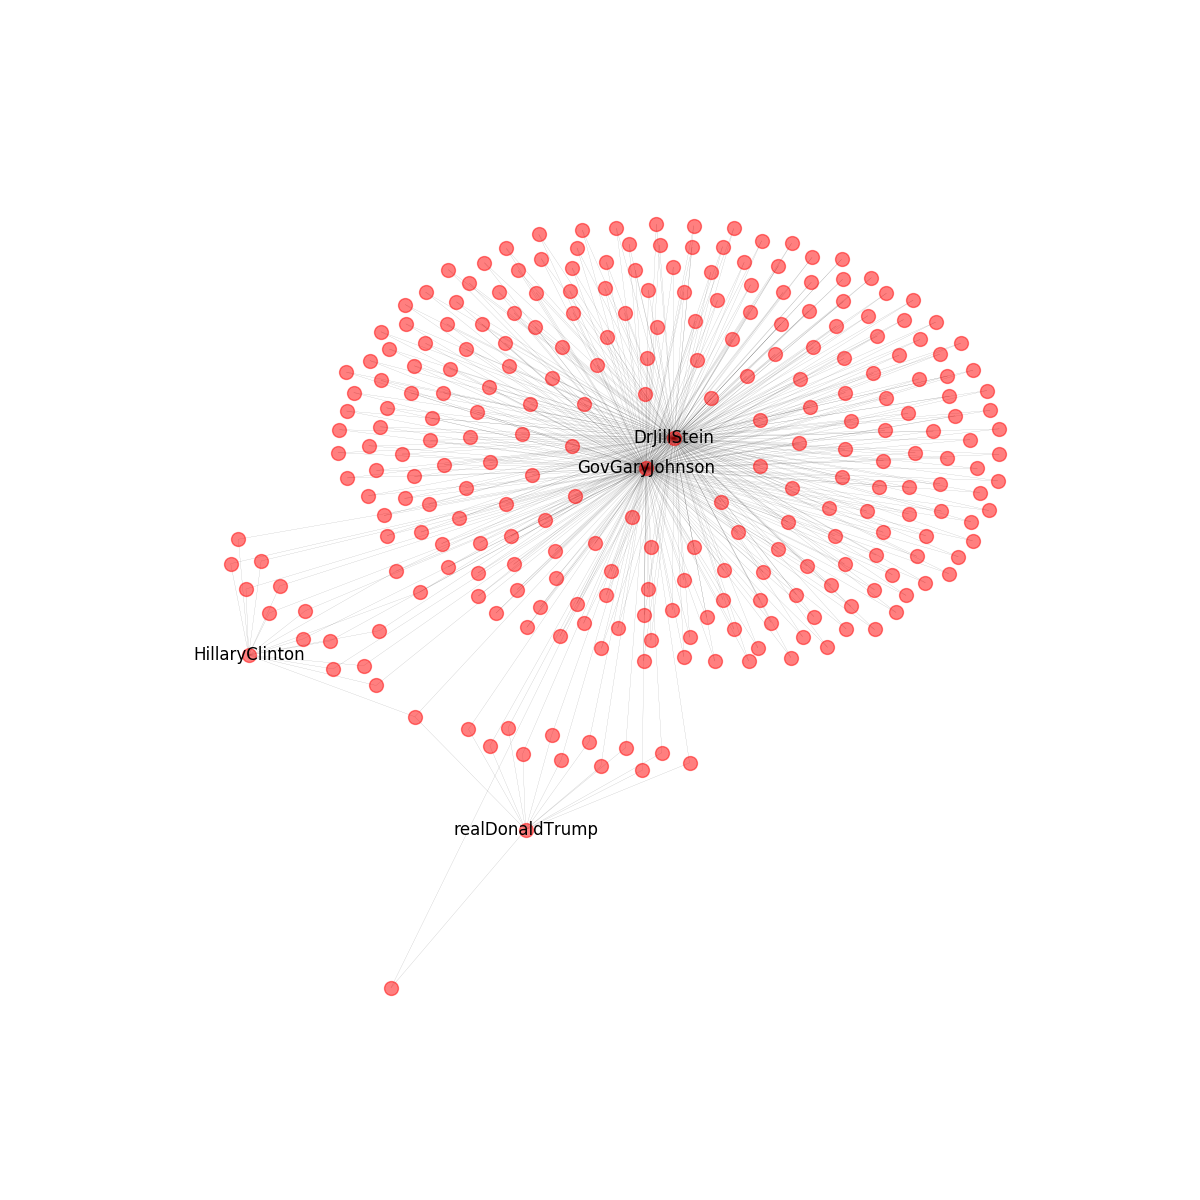
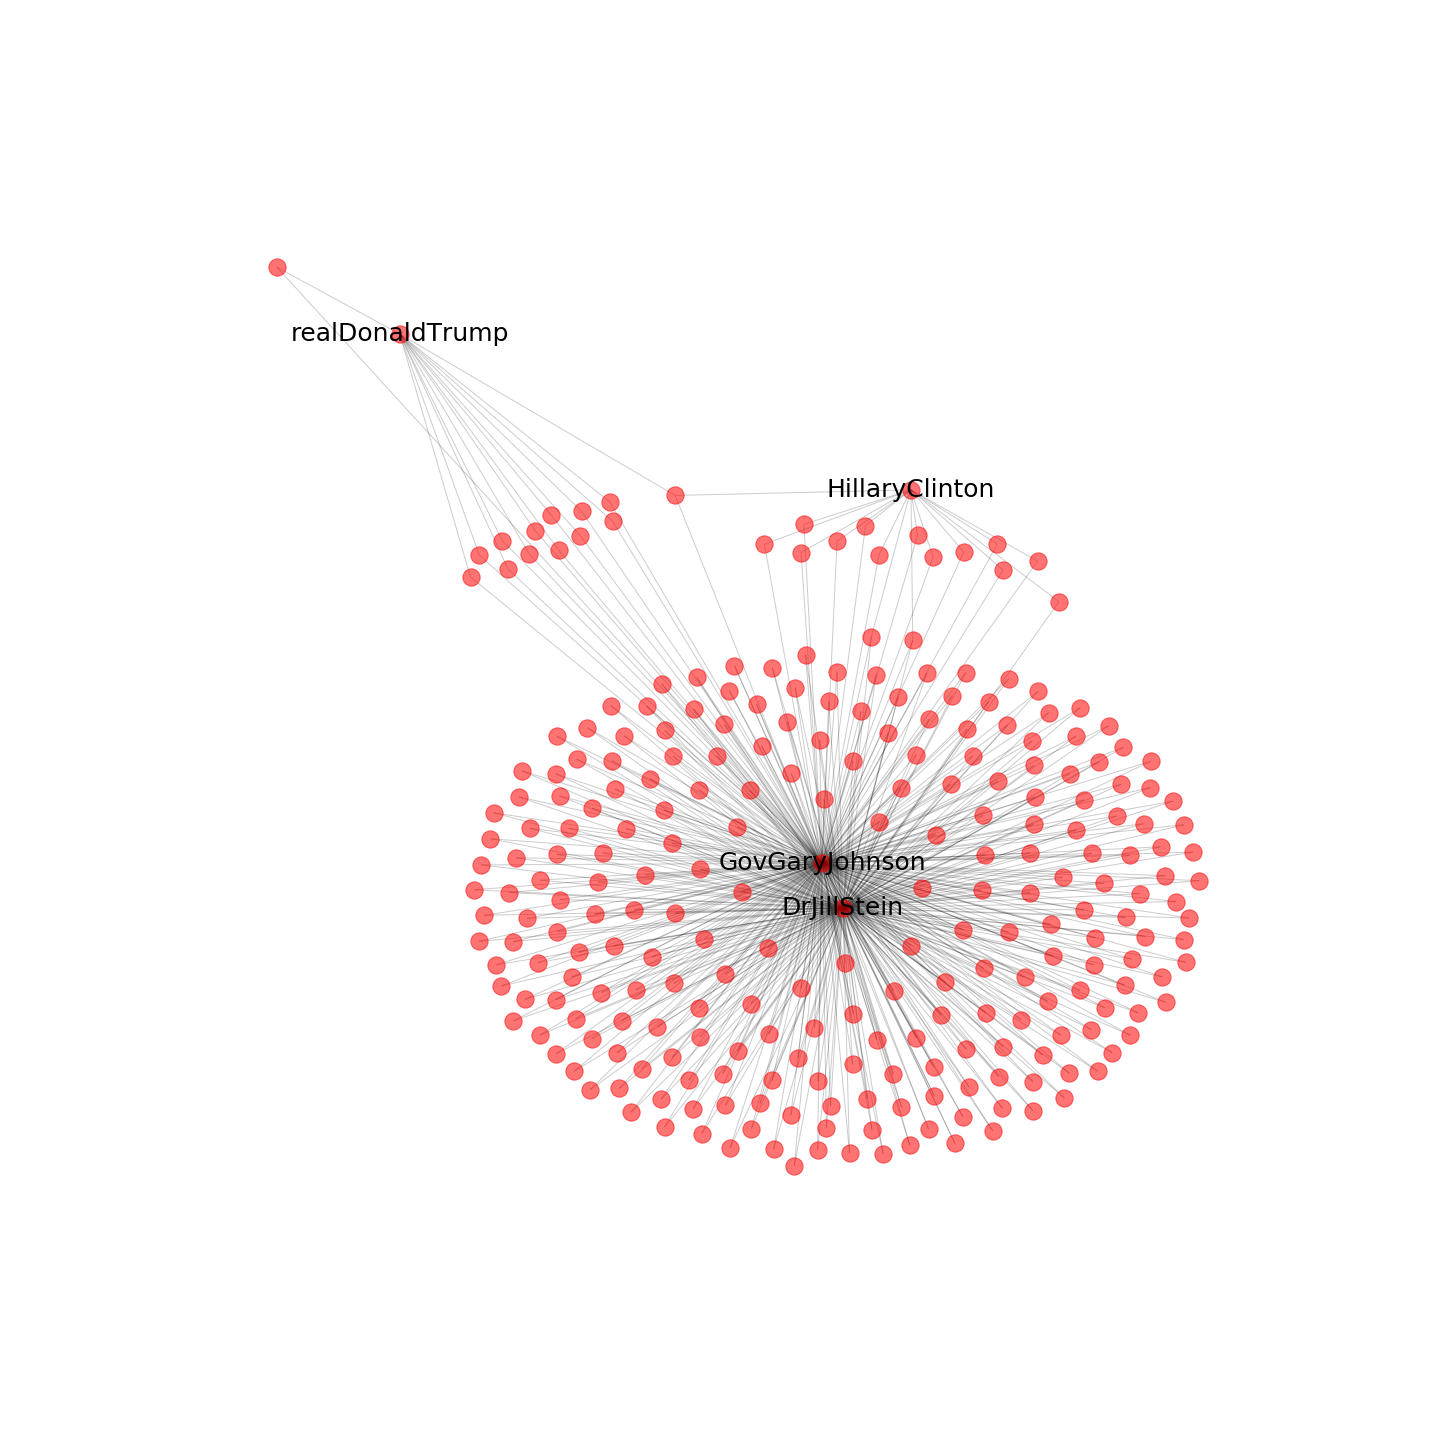
homework complete

Changed region(s): [[0.1542, 0.185, 0.8633, 0.8325], [0.3083, 0.8017, 0.3392, 0.8325], [0.185, 0.185, 0.2158, 0.2158]]

diff --git a/a0/a0.py b/a0/a0.py
@@ -37,10 +37,10 @@ import sys
 import time
 from TwitterAPI import TwitterAPI
 
-consumer_key = 'fixme'
-consumer_secret = 'fixme'
-access_token = 'fixme'
-access_token_secret = 'fixme'
+consumer_key = 'ZQUWep0tLQOMLlAzp3rc5nfLC'
+consumer_secret = 'WcUpLnL307p7mRVw8blFT9B6cfAeXeNyJurdEcgqyjX5PgtKin'
+access_token = '953384758742081541-vRfGVBxWZfOVKmKMf0I142BXEjzFbRP'
+access_token_secret = 'XjkTkXGQQdO2gFv29W5pPEZh6F3IhrrRJRjkZSugJEKGa'
 
 
 # This method is done for you.
@@ -66,9 +66,10 @@ def read_screen_names(filename):
     >>> read_screen_names('candidates.txt')
     ['DrJillStein', 'GovGaryJohnson', 'HillaryClinton', 'realDonaldTrump']
     """
-    ###TODO
-    pass
-
+    with open(filename) as f:
+        content = f.read().splitlines()
+    return content
+     ###TODO
 
 # I've provided the method below to handle Twitter's rate limiting.
 # You should call this method whenever you need to access the Twitter API.
@@ -112,8 +113,9 @@ def get_users(twitter, screen_names):
     >>> [u['id'] for u in users]
     [6253282, 783214]
     """
+    request = robust_request(twitter,'users/lookup',{'screen_name': screen_names},10)
+    return request
     ###TODO
-    pass
 
 
 def get_friends(twitter, screen_name):
@@ -137,8 +139,12 @@ def get_friends(twitter, screen_name):
     >>> get_friends(twitter, 'aronwc')[:5]
     [695023, 1697081, 8381682, 10204352, 11669522]
     """
+    request = robust_request(twitter,'friends/ids',{'screen_name': screen_name},10)
+    tweets = [r for r in request]
+    tweets = sorted(tweets)
+    return tweets    
     ###TODO
-    pass
+
 
 
 def add_all_friends(twitter, users):
@@ -159,6 +165,9 @@ def add_all_friends(twitter, users):
     >>> users[0]['friends'][:5]
     [695023, 1697081, 8381682, 10204352, 11669522]
     """
+    for i in range(0,len(users)):
+        users[i]['friends'] = get_friends(twitter,users[i]['screen_name'])
+
     ###TODO
     pass
 
@@ -170,8 +179,19 @@ def print_num_friends(users):
         users....The list of user dicts.
     Returns:
         Nothing
+        
+     DrJillStein 1645
+     GovGaryJohnson 3484
+    HillaryClinton 761
+    realDonaldTrump 45   
     """
+    
     ###TODO
+    test = []
+    for i in range(0,len(users)):
+        test.append(tuple((users[i]['screen_name'],len(users[i]['friends']))))
+    
+    print(sorted(test , key = lambda a: a[0]))        
     pass
 
 
@@ -187,9 +207,16 @@ def count_friends(users):
     >>> c = count_friends([{'friends': [1,2]}, {'friends': [2,3]}, {'friends': [2,3]}])
     >>> c.most_common()
     [(2, 3), (3, 2), (1, 1)]
+    
+    [(18766459, 3), (19608297, 3), (822215673812119553, 3), (12, 2), (428333, 2)]
     """
     ###TODO
-    pass
+    
+    # Count words
+    counts = Counter()
+    for u in users:
+        counts.update(u['friends'])
+    return counts
 
 
 def friend_overlap(users):
@@ -212,9 +239,24 @@ def friend_overlap(users):
     ...     {'screen_name': 'c', 'friends': ['1', '2', '3']},
     ...     ])
     [('a', 'c', 3), ('a', 'b', 2), ('b', 'c', 2)]
+    
+    Friend Overlap:
+[('DrJillStein', 'GovGaryJohnson', 238), ('GovGaryJohnson', 'HillaryClinton', 14), ('GovGaryJohnson', 'realDonaldTrump', 13), ('DrJillStein', 'HillaryClinton', 3), ('HillaryClinton', 'realDonaldTrump', 1), ('DrJillStein', 'realDonaldTrump', 0)]
     """
     ###TODO
-    pass
+    Friend_overlap = []
+    i=0
+    for u in users:
+        i=i+1
+        for u2 in range (i,len(users)):
+            counts = Counter()
+            counts.update(u['friends'])
+            counts.update(users[u2]['friends'])
+            total = [k for k in counts if counts[k]>1 ]
+            Friend_overlap.append(tuple((u['screen_name'],users[u2]['screen_name'],len(total))))
+    
+    Friend_overlap = sorted(Friend_overlap, key= lambda a: a[2], reverse=True)
+    return Friend_overlap
 
 
 def followed_by_hillary_and_donald(users, twitter):
@@ -232,8 +274,14 @@ def followed_by_hillary_and_donald(users, twitter):
         that is followed by both Hillary Clinton and Donald Trump.
     """
     ###TODO
-    pass
 
+    counts = Counter()
+    counts.update(users[2]['friends'])
+    counts.update(users[3]['friends'])
+    tweeter_id = counts.most_common(1)[0][0]
+    request = request = robust_request(twitter,'users/lookup',{'user_id': tweeter_id},10)
+    screen_name = [r['screen_name'] for r in request]
+    return screen_name
 
 def create_graph(users, friend_counts):
     """ Create a networkx undirected Graph, adding each candidate and friend
@@ -251,7 +299,23 @@ def create_graph(users, friend_counts):
       A networkx Graph
     """
     ###TODO
-    pass
+    # Create a graph
+    graph = nx.Graph()
+    
+    for i in list(friend_counts):
+        if friend_counts[i]<2:
+            del friend_counts[i]
+  
+    for u in users:
+        counts = Counter()
+        counts.update(u['friends'])
+        overlap = counts&friend_counts
+        for o in list(overlap):
+            graph.add_edge(u['screen_name'],o)
+            
+    nx.draw_networkx(graph, with_labels=True)
+    
+    return graph
 
 
 def draw_network(graph, users, filename):
@@ -265,7 +329,25 @@ def draw_network(graph, users, filename):
     make it look presentable.
     """
     ###TODO
-    pass
+    fig1 = plt.figure(figsize=(50, 50))
+    pos=nx.spring_layout(graph)
+    nx.draw_networkx_nodes(graph,pos,
+                       nodelist=pos,
+                       node_size=1500,alpha=0.6)
+    nx.draw_networkx_edges(graph,pos,
+                       nodelist=pos,
+                       width=1,alpha=0.3,edge_color='k')
+
+    label = {n:n if type(n)==str  else '' for n in graph.nodes()}
+
+    nx.draw_networkx_labels(graph,pos,label,font_size=60)
+    plt.axis('off')
+    plt.show()
+    plt.draw()
+    fig1.savefig('network.png') 
+    fig1.savefig(filename) 
+    
+    
 
 
 def main():
@@ -289,6 +371,11 @@ def main():
     print('graph has %s nodes and %s edges' % (len(graph.nodes()), len(graph.edges())))
     draw_network(graph, users, 'network.png')
     print('network drawn to network.png')
+    
+    request = robust_request(twitter,'statuses/user_timeline',{'screen_name': 'WhiteHouse'
+                                                               , 'count': 200},10)
+    timeline =[t['text'] for t in request]
+    print('got %d tweets for user %s' % (len(timeline), 'WhiteHouse'))
 
 
 if __name__ == '__main__':
